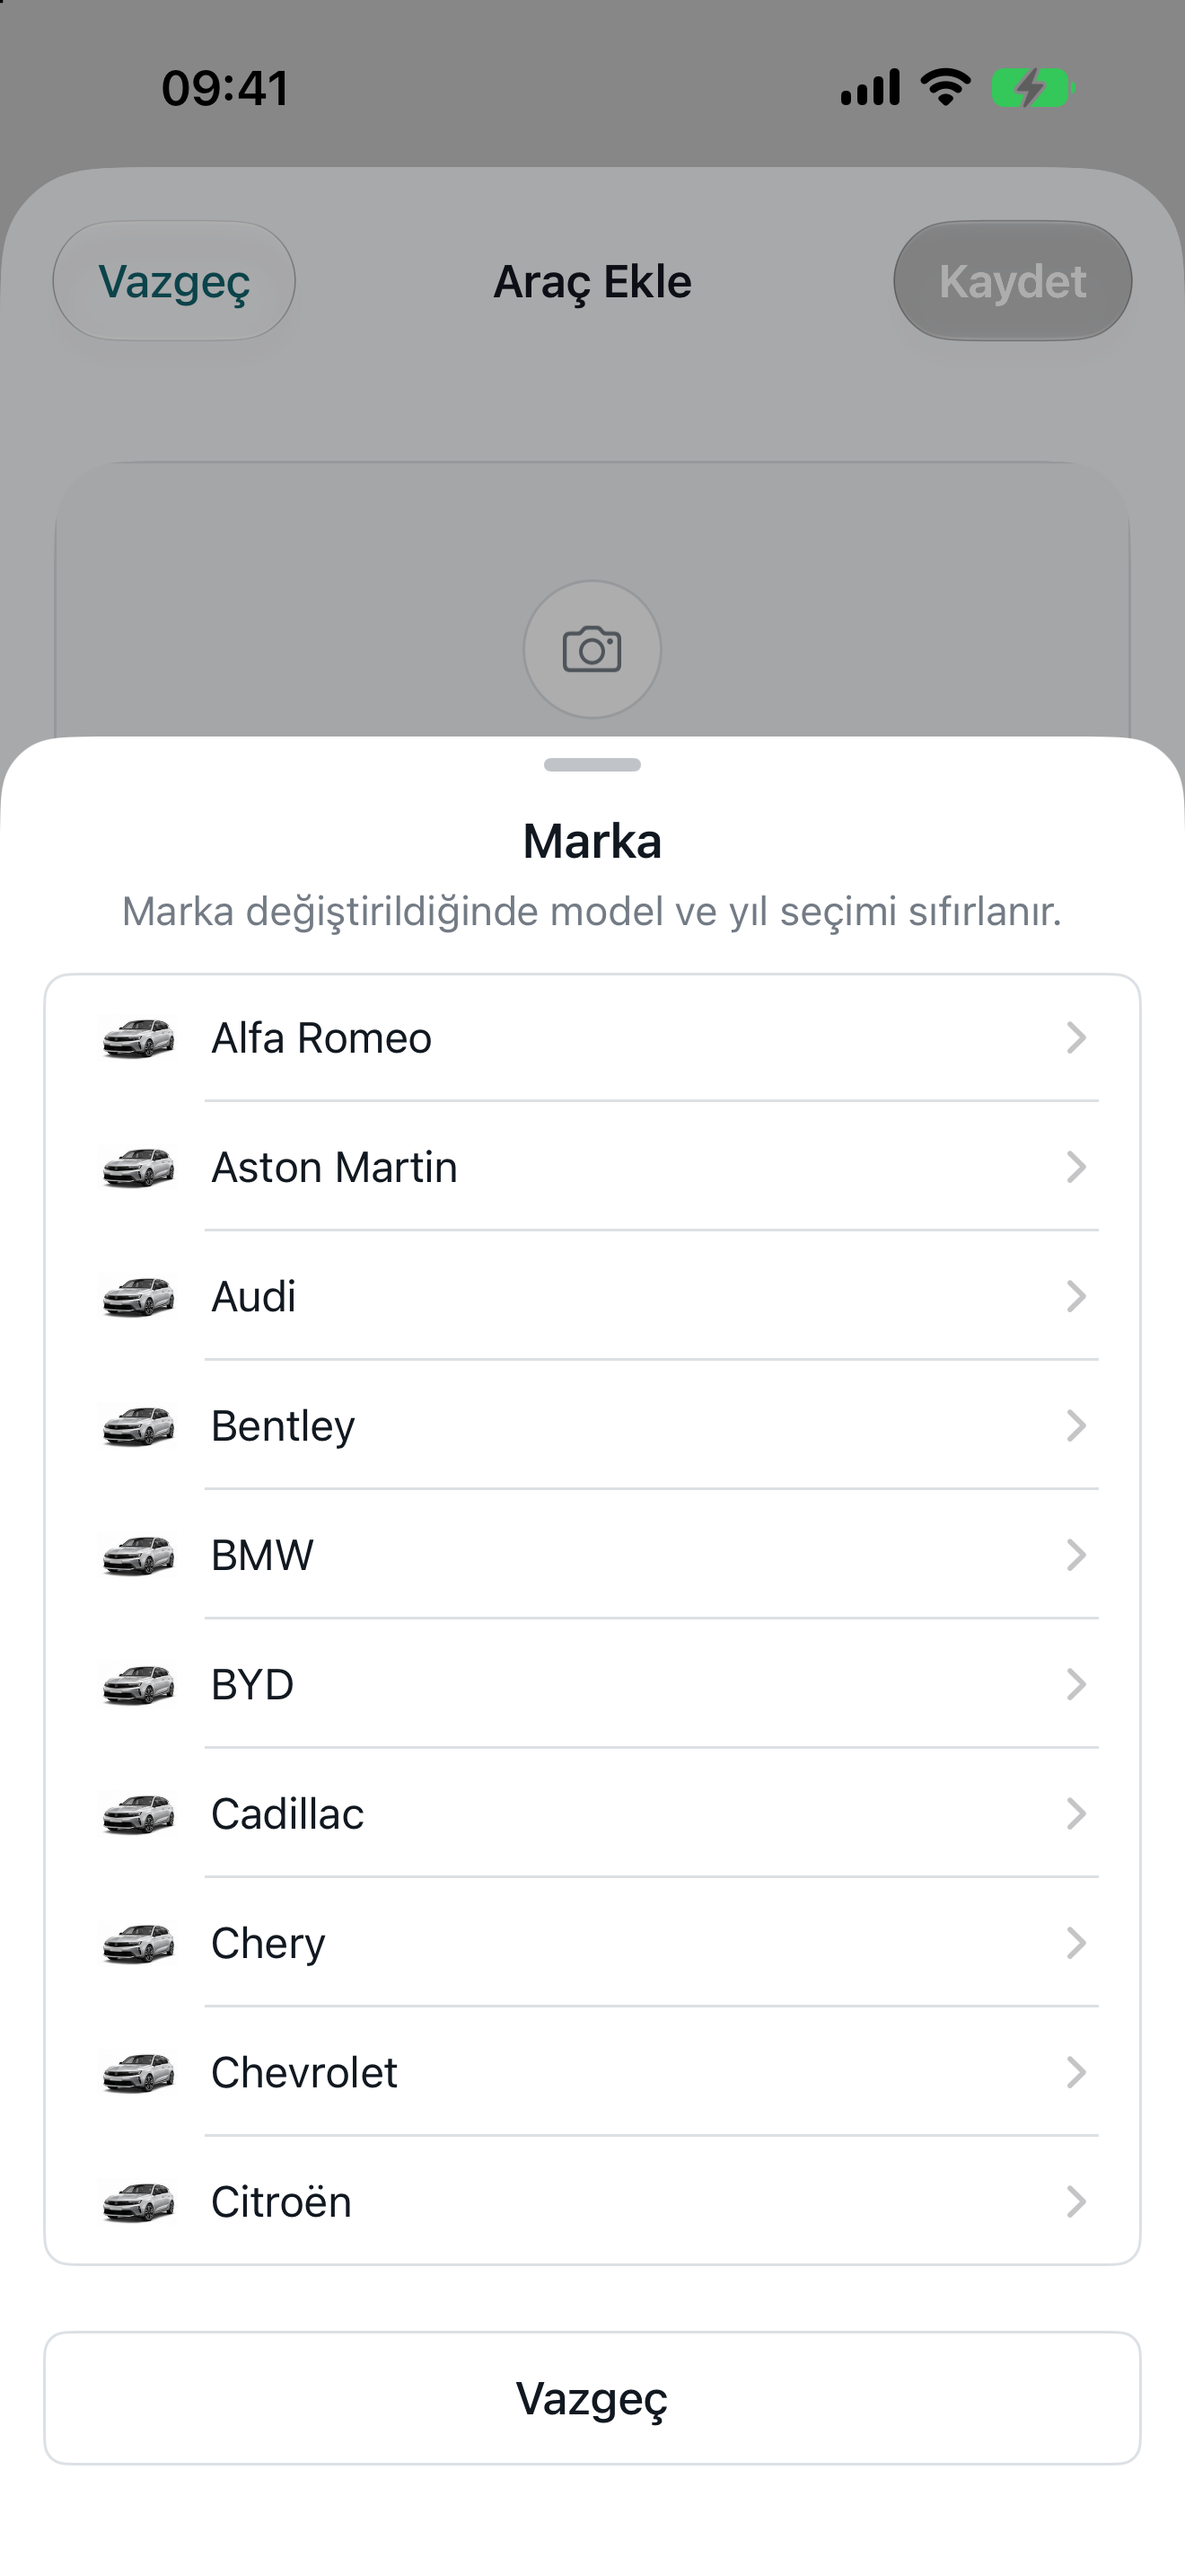
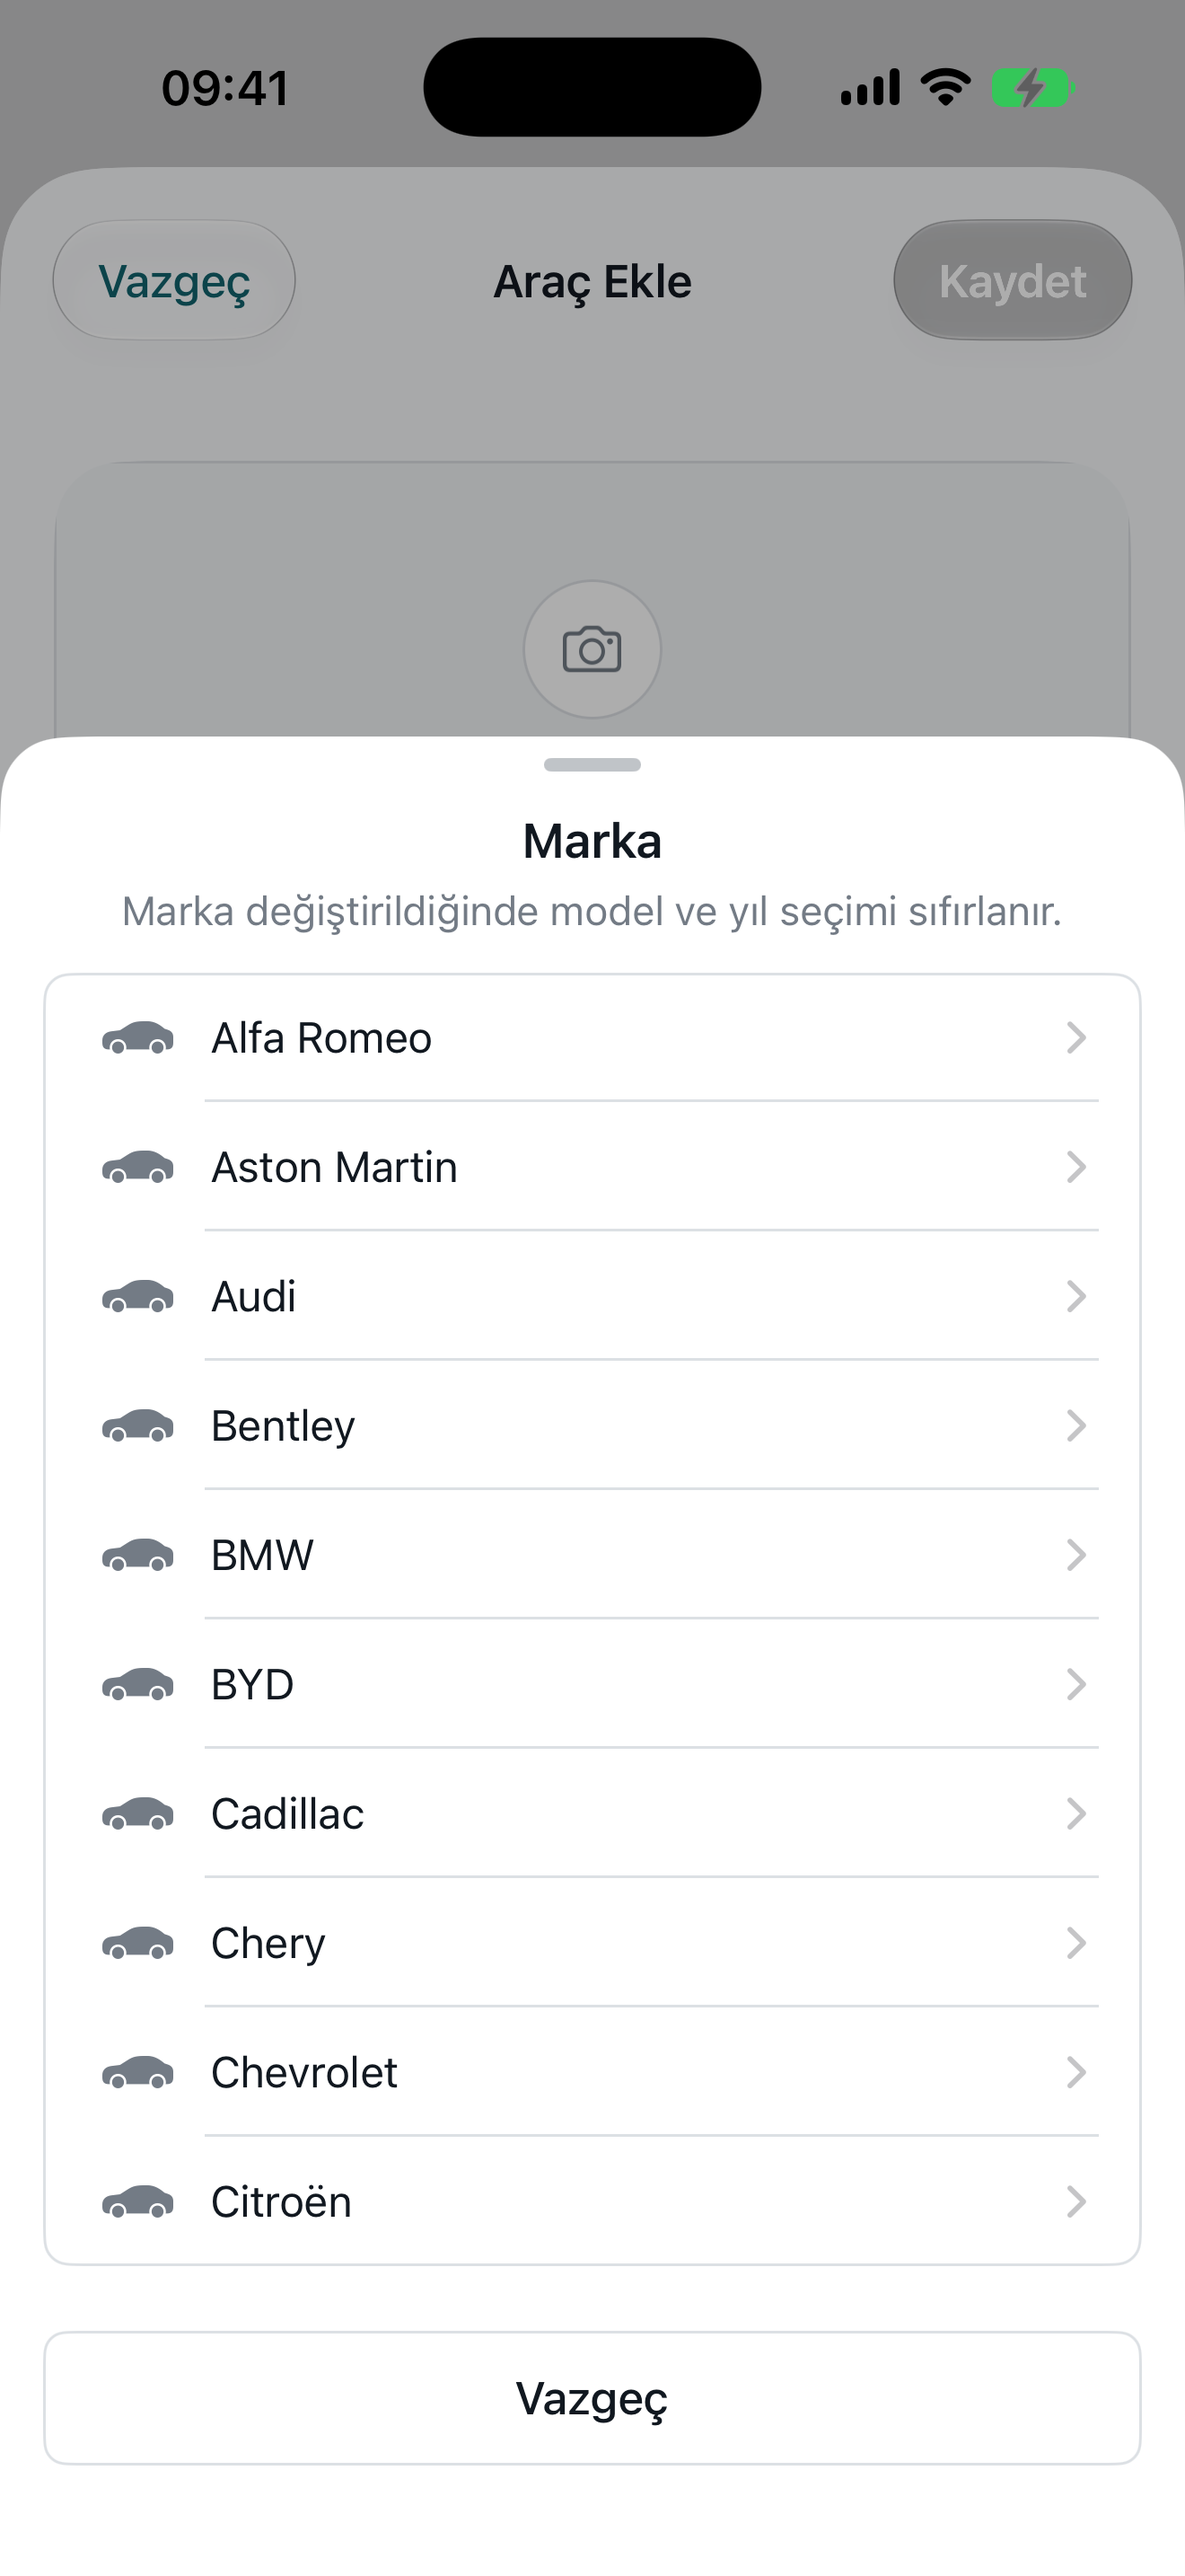
Finalize vehicle placeholders and release tooling

diff --git a/GarageApp/Application/SceneDelegate.swift b/GarageApp/Application/SceneDelegate.swift
@@ -14,13 +14,29 @@ final class SceneDelegate: UIResponder, UIWindowSceneDelegate {
         let window = UIWindow(windowScene: windowScene)
         AppAppearanceController.shared.apply(to: window)
         let isUITesting = ProcessInfo.processInfo.arguments.contains { $0.hasPrefix("-uiTesting") }
+        let shouldInitializeCloudKitSchema = ProcessInfo.processInfo.arguments.contains(
+            "-initializeCloudKitSchema"
+        )
+        let shouldPrintCloudKitSchema = ProcessInfo.processInfo.arguments.contains(
+            "-printCloudKitSchema"
+        )
         self.window = window
         bootstrapTask = Task { @MainActor [weak self, weak window] in
             let container = await DependencyContainer.makeForApplication(
-                inMemory: isUITesting
+                inMemory: isUITesting,
+                forceCloudSync: shouldInitializeCloudKitSchema || shouldPrintCloudKitSchema
             )
             guard !Task.isCancelled, let self, let window else { return }
 #if DEBUG
+            if shouldInitializeCloudKitSchema || shouldPrintCloudKitSchema {
+                do {
+                    try container.persistenceController.initializeCloudKitSchema(
+                        dryRun: shouldPrintCloudKitSchema
+                    )
+                } catch {
+                    print("CloudKit schema could not be prepared: \(error)")
+                }
+            }
             if ProcessInfo.processInfo.arguments.contains("-uiTestingScreenshots") {
                 do {
                     try await ScreenshotDataSeeder.seed(container: container)

diff --git a/GarageApp/Services/CloudSync/CloudSyncMonitor.swift b/GarageApp/Services/CloudSync/CloudSyncMonitor.swift
@@ -32,7 +32,7 @@ final class CloudSyncMonitor {
     }
 
     private let persistentContainer: NSPersistentCloudKitContainer?
-    private let cloudContainer: CKContainer
+    private let cloudContainer: CKContainer?
     private let notificationCenter: NotificationCenter
     private var eventObserver: NSObjectProtocol?
     private var accountObserver: NSObjectProtocol?
@@ -49,7 +49,7 @@ final class CloudSyncMonitor {
 
     init(
         persistentContainer: NSPersistentCloudKitContainer?,
-        cloudContainer: CKContainer,
+        cloudContainer: CKContainer?,
         notificationCenter: NotificationCenter = .default
     ) {
         self.persistentContainer = persistentContainer
@@ -72,7 +72,7 @@ final class CloudSyncMonitor {
         guard !isRunning else { return }
         isRunning = true
 
-        guard let persistentContainer else {
+        guard let persistentContainer, cloudContainer != nil else {
             status = .unavailable("CloudKit veri deposu etkin değil.")
             return
         }
@@ -130,7 +130,7 @@ final class CloudSyncMonitor {
     }
 
     func refreshAccountStatus() {
-        guard isRunning, persistentContainer != nil else { return }
+        guard isRunning, persistentContainer != nil, let cloudContainer else { return }
         accountTask?.cancel()
         accountTask = Task { [weak self] in
             guard let self else { return }

diff --git a/GarageApp/Application/DependencyContainer.swift b/GarageApp/Application/DependencyContainer.swift
@@ -35,10 +35,16 @@ final class DependencyContainer {
         self.init(persistence: persistence, inMemory: inMemory)
     }
 
-    static func makeForApplication(inMemory: Bool = false) async -> DependencyContainer {
+    static func makeForApplication(
+        inMemory: Bool = false,
+        forceCloudSync: Bool = false
+    ) async -> DependencyContainer {
         guard !inMemory else { return DependencyContainer(inMemory: true) }
-        let requestedCloudSync = CloudSyncController.preferredCloudSyncEnabled()
-            && CloudSyncController.legacyAssetsArePrepared()
+        let requestedCloudSync = forceCloudSync
+            || (
+                CloudSyncController.preferredCloudSyncEnabled()
+                    && CloudSyncController.legacyAssetsArePrepared()
+            )
         let identifier = cloudContainerIdentifier
         let persistence = await Task.detached(priority: .userInitiated) {
             PersistenceController(

diff --git a/GarageApp/Data/CoreData/PersistenceController.swift b/GarageApp/Data/CoreData/PersistenceController.swift
@@ -131,6 +131,15 @@ final class PersistenceController: @unchecked Sendable {
         await deletionMarkerReconciler.markFilePathCleaned(relativePath)
     }
 
+#if DEBUG
+    func initializeCloudKitSchema(dryRun: Bool = false) throws {
+        let options: NSPersistentCloudKitContainerSchemaInitializationOptions = dryRun
+            ? [.dryRun, .printSchema]
+            : []
+        try container.initializeCloudKitSchema(options: options)
+    }
+#endif
+
     private static func configureStoreDescription(_ description: NSPersistentStoreDescription) {
         description.shouldMigrateStoreAutomatically = true
         description.shouldInferMappingModelAutomatically = true

diff --git a/GarageApp/Services/CloudSync/CloudSyncController.swift b/GarageApp/Services/CloudSync/CloudSyncController.swift
@@ -122,7 +122,9 @@ final class CloudSyncController {
             : .pending
         monitor = CloudSyncMonitor(
             persistentContainer: persistentContainer as? NSPersistentCloudKitContainer,
-            cloudContainer: CKContainer(identifier: cloudContainerIdentifier),
+            cloudContainer: activeConfigurationIsCloudEnabled
+                ? CKContainer(identifier: cloudContainerIdentifier)
+                : nil,
             notificationCenter: notificationCenter
         )
 

diff --git a/GarageApp/Presentation/Vehicles/VehicleEditorViewController.swift b/GarageApp/Presentation/Vehicles/VehicleEditorViewController.swift
@@ -234,7 +234,7 @@ final class VehicleEditorViewController: UITableViewController, PHPickerViewCont
         let options = makes.map {
             SelectionSheetOption(
                 title: $0.name,
-                imageName: "VehiclePlaceholder"
+                symbolName: "car.side.fill"
             )
         }
             + [SelectionSheetOption(title: "Diğer / Manuel Gir", symbolName: "square.and.pencil")]
